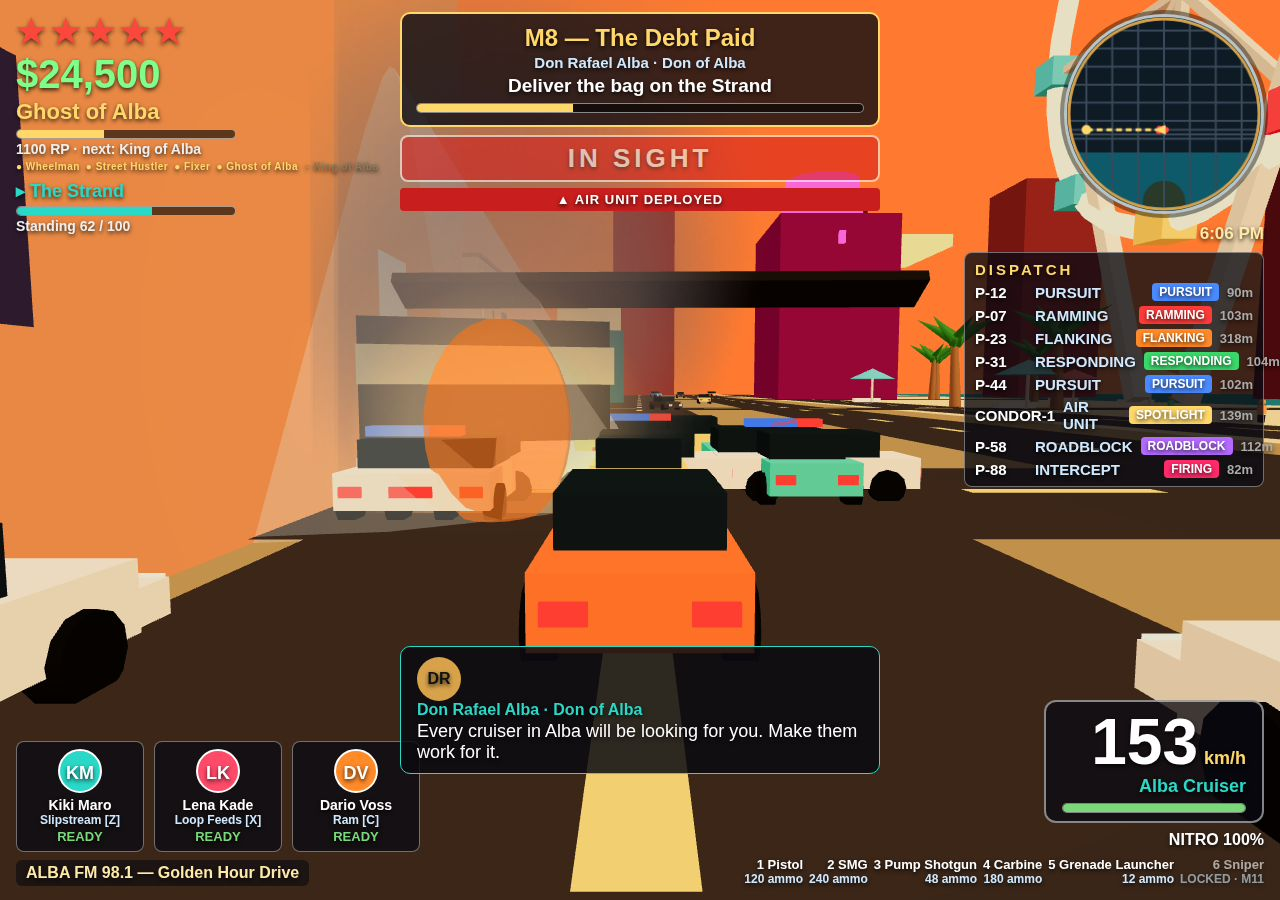
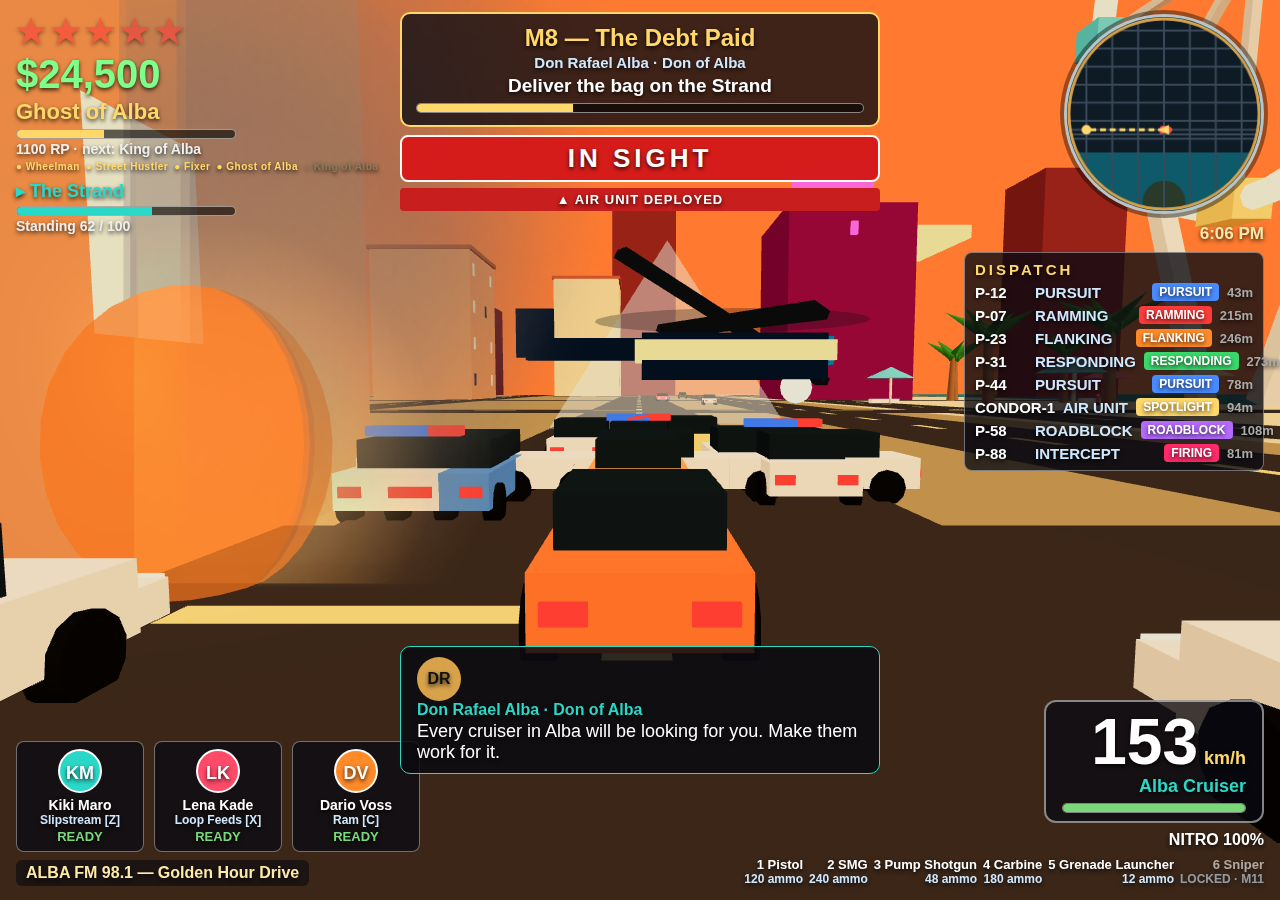
Puerto Alba v4 (rescue round 5): heli re-staged, fully visible

diff --git a/game/src/police.js b/game/src/police.js
@@ -116,41 +116,54 @@ export class Police {
     inner.position.y = -3;
     g.add(inner);
     // Dark navy body: high contrast so the heli reads against the bright orange sky.
+    // MeshBasicMaterial (v4r5): Lambert navy washed out to pale cream under
+    // the golden-hour sun + the spotlight cone in front of it. Flat dark
+    // navy renders as a true silhouette from every angle.
     const body = new THREE.Mesh(new THREE.BoxGeometry(3.4, 1.6, 6.5),
-      new THREE.MeshLambertMaterial({ color: 0x1a2a3a }));
+      new THREE.MeshBasicMaterial({ color: 0x12202e }));
     inner.add(body);
-    // Bright gold band: the accent stripe.
-    const stripe = new THREE.Mesh(new THREE.BoxGeometry(3.5, 0.5, 6.6),
+    // Bright gold band: the accent stripe. Stands proud of the body
+    // (0.25 a side) so the gold reads from the side, not flush with it.
+    const stripe = new THREE.Mesh(new THREE.BoxGeometry(3.9, 0.7, 7.0),
       new THREE.MeshBasicMaterial({ color: 0xffd76a }));
     stripe.position.y = 0.2; inner.add(stripe);
     const tail = new THREE.Mesh(new THREE.BoxGeometry(0.8, 0.8, 5),
-      new THREE.MeshLambertMaterial({ color: 0x1a2a3a }));
+      new THREE.MeshBasicMaterial({ color: 0x12202e }));
     tail.position.set(0, 0.3, -5); inner.add(tail);
     // Vertical tail fin: makes the tail read from behind/below.
     const fin = new THREE.Mesh(new THREE.BoxGeometry(0.15, 1.8, 1.4),
-      new THREE.MeshLambertMaterial({ color: 0x1a2a3a }));
+      new THREE.MeshBasicMaterial({ color: 0x12202e }));
     fin.position.set(0, 0.9, -7.2); inner.add(fin);
     const glass = new THREE.Mesh(new THREE.BoxGeometry(3.0, 1.0, 1.8),
-      new THREE.MeshLambertMaterial({ color: 0x2a6a8a }));
+      new THREE.MeshBasicMaterial({ color: 0x2a6a8a }));
     glass.position.set(0, 0.2, 2.6); inner.add(glass);
     // Coning tilt: the rotor spins about Y, so a flat bar is edge-on and
     // invisible at some phases and sits above the frame when the heli rides
     // high. Tilting the spin plane ~26 deg keeps one blade tip dipping
     // below the body top at every phase, so a rotor blade is always in
-    // frame beside the body. Blades are long (16) so they read as a rotor
-    // spanning the sky, not stubs at the frame edge.
-    const rotor = new THREE.Mesh(new THREE.BoxGeometry(16, 0.15, 0.7),
-      new THREE.MeshLambertMaterial({ color: 0x222222 }));
+    // frame beside the body. Blades are 10 long (v4r5, was 16): at 16 the
+    // rotor spanned the whole frame as a beam, not a rotor.
+    const rotor = new THREE.Mesh(new THREE.BoxGeometry(10, 0.3, 0.7),
+      new THREE.MeshBasicMaterial({ color: 0x1a1a1a }));
     rotor.position.y = 1.3;
     rotor.rotation.z = 0.45;
     inner.add(rotor);
     // Second blade at 90 deg, parented to the rotor so the pair spins as
     // an X: a single bar is edge-on and invisible at some phases, an X
     // always shows a broadside blade.
-    const rotor2 = new THREE.Mesh(new THREE.BoxGeometry(16, 0.15, 0.7),
-      new THREE.MeshLambertMaterial({ color: 0x222222 }));
+    const rotor2 = new THREE.Mesh(new THREE.BoxGeometry(10, 0.3, 0.7),
+      new THREE.MeshBasicMaterial({ color: 0x1a1a1a }));
     rotor2.rotation.y = Math.PI / 2;
     rotor.add(rotor2);
+    // Rotor disc (v4r5): a translucent dark disc at the hub plane. The
+    // spinning X alone catches a bad phase in a still frame (short stubs
+    // that never connect to the body); the disc reads as rotor blur at
+    // every phase and every angle, so the aircraft reads as a helicopter.
+    const disc = new THREE.Mesh(new THREE.CircleGeometry(5, 24),
+      new THREE.MeshBasicMaterial({ color: 0x1a1a1a, transparent: true, opacity: 0.28, side: THREE.DoubleSide }));
+    disc.rotation.x = -Math.PI / 2;
+    disc.position.y = 1.3;
+    inner.add(disc);
     const lamp = new THREE.Mesh(new THREE.SphereGeometry(0.6, 8, 8),
       new THREE.MeshBasicMaterial({ color: 0xfff2c0 }));
     lamp.position.set(0, -1.1, 2.5); inner.add(lamp);

diff --git a/game/src/main.js b/game/src/main.js
@@ -1067,22 +1067,33 @@ export class Game {
         const off = (i - 1) * 4.5;
         c.setPos(this.car.x + 10, 200 + off, 1.57 + Math.PI / 2);
       });
-      // Helicopter low + close + large, spotlight cone hard and wide.
+      // Helicopter re-staged (v4r5): smaller + farther + side-on, in open
+      // sky, so the whole aircraft (rotor X, body, gold stripe, glass,
+      // tail + fin) reads at a glance. Moved to the far side (+z) in this
+      // round: parked on the near side the tail sat behind the Strand
+      // buildings and the fireball glow washed the body pale.
       if (this.police.heli) {
         const h = this.police.heli;
-        h.group.position.set(this.car.x + 13, 9, this.car.z - 8);
-        h.group.scale.set(2, 2, 2);
-        h.cone.position.set(this.car.x + 13, 4.5, this.car.z - 8);
+        h.group.position.set(this.car.x + 33, 9, this.car.z + 5);
+        h.group.scale.set(1.5, 1.5, 1.5);
+        h.group.rotation.y = 0;
+        // Cone beyond the heli (v4r5): a cone on the heli's line sits
+        // between the camera and the aircraft and washes it out. Past the
+        // heli it can never sit in front of the body; the beam still lands
+        // on the road ahead, apex behind the mission card.
+        h.cone.position.set(this.car.x + 45, 4.5, this.car.z + 2);
         h.cone.scale.set(1.4, 1.0, 1.4);
         h.cone.material.opacity = 0.3;
       }
       // One timed blast ahead of the car (game seconds crawl under
       // swiftshader, so a re-fired blast never fades and they stack into
-      // a diffuse glow). Fired once, ~1-3 frames before capture: a single
-      // compact deep-orange ball, centre-left, behind the roadblock.
+      // a diffuse glow). Fired once, ~0.8 s before capture (scheduled from
+      // ready, see _signalReady): a single compact deep-orange ball,
+      // centre-left, behind the roadblock. Moved to x+12 / z 194 (v4r5):
+      // at x+20 it sat under the heli and its glow washed the body pale.
       if (this._nextBoom && now >= this._nextBoom) {
-        this.effects.explosion(this.car.x + 20, 197, 0.7);
-        this.effects.smoke(this.car.x + 20, 3, 197);
+        this.effects.explosion(this.car.x + 12, 194, 0.7);
+        this.effects.smoke(this.car.x + 12, 3, 194);
         this._nextBoom = 0;
       }
       if (this.city.ferrisWheel) this.city.ferrisWheel.rotation.z += dt * 0.05;
@@ -1105,12 +1116,15 @@ export class Game {
         c.setPos(this.player.x + o.dx, 200 + o.dz, 1.57);
         c.speed = 0;
       });
-      // Heli low + close with a hard cone.
+      // Heli re-staged (v4r5): same open-sky side-on framing as the cover,
+      // far side (+z) so the tail clears the Strand buildings.
       if (this.police.heli) {
         const h = this.police.heli;
-        h.group.position.set(this.player.x + 14, 10, this.player.z - 8);
-        h.group.scale.set(2, 2, 2);
-        h.cone.position.set(this.player.x + 14, 5, this.player.z - 8);
+        h.group.position.set(this.player.x + 33, 9, this.player.z + 4);
+        h.group.scale.set(1.5, 1.5, 1.5);
+        h.group.rotation.y = 0;
+        // Cone beyond the heli (v4r5): same washout fix as the cover.
+        h.cone.position.set(this.player.x + 45, 5, this.player.z + 2);
         h.cone.scale.set(1.4, 1.0, 1.4);
         h.cone.material.opacity = 0.3;
       }
@@ -1150,6 +1164,11 @@ export class Game {
     if (!this._readySignalled) {
       this._readySignalled = true;
       window.__gameReady = true;
+      // Fireball timing (v4r5): the screenshot is taken 5 s after ready,
+      // so schedule the single blast for ready + 4.2 s — a fresh ball
+      // ~0.8 s before capture. Firing from staging (+4 s) left the ball
+      // faded or gone whenever init ran slow.
+      if (this.shotMode && this.shot === 'chase') this._nextBoom = Date.now() + 4200;
     }
   }
 
